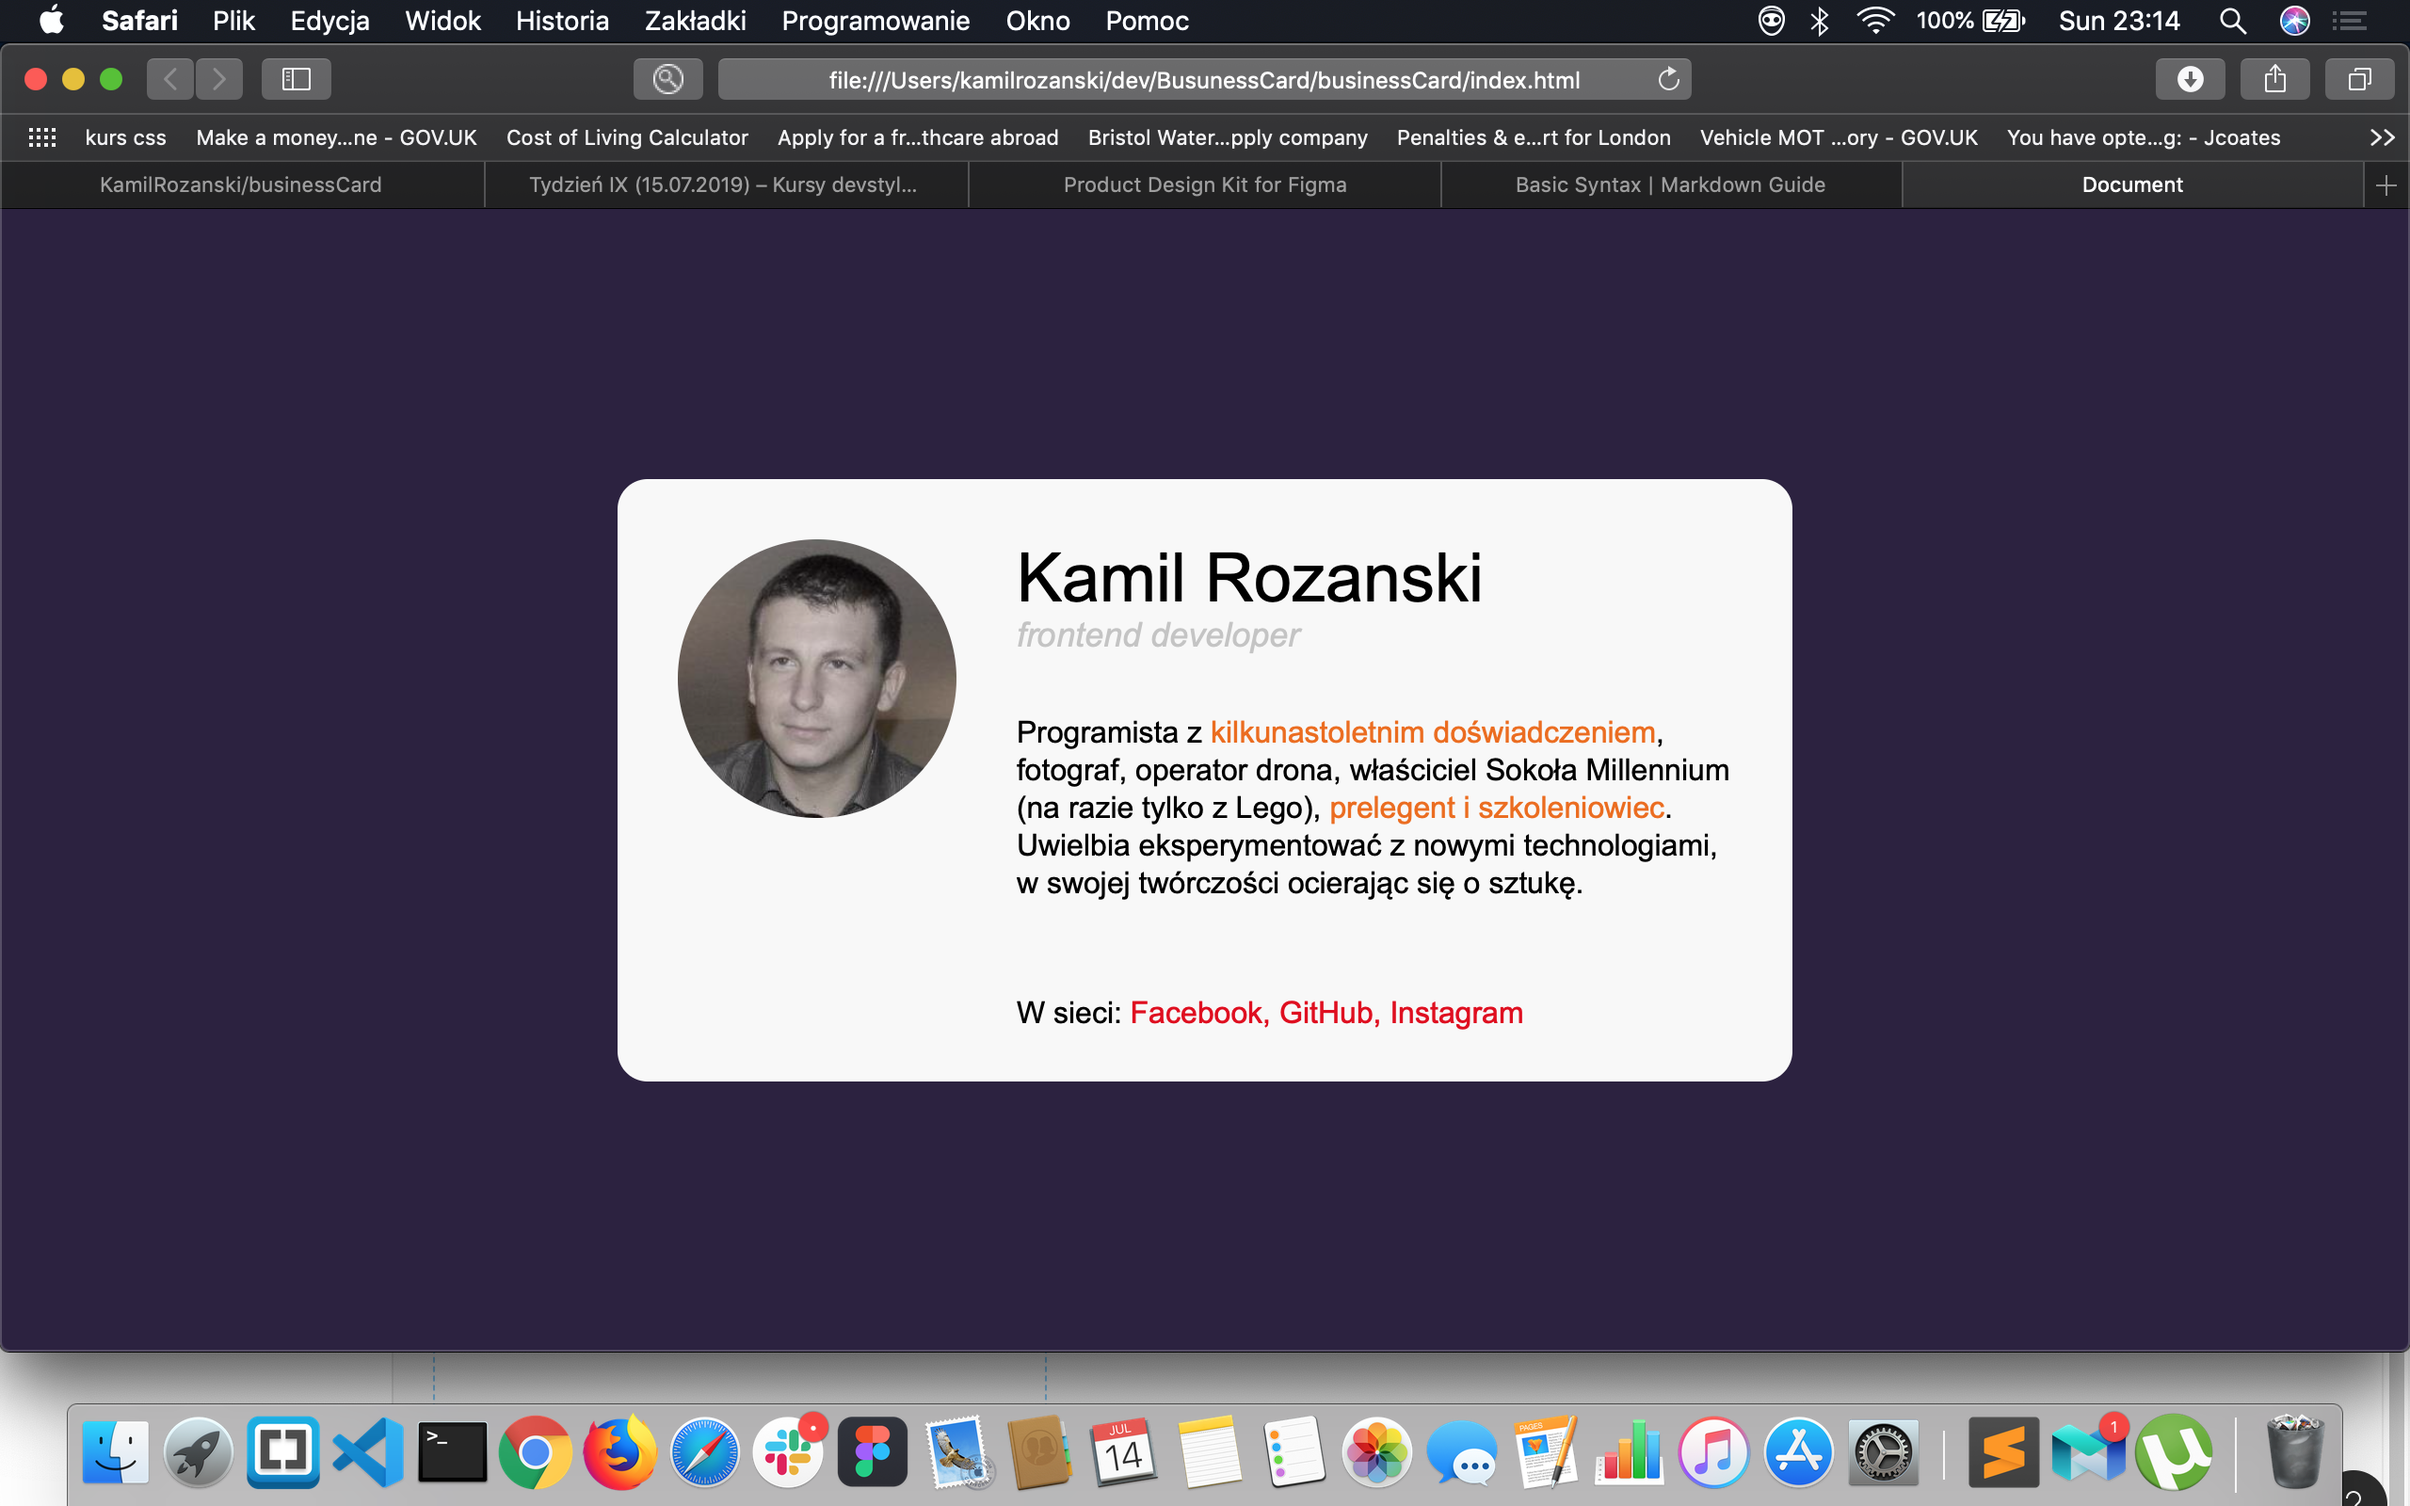
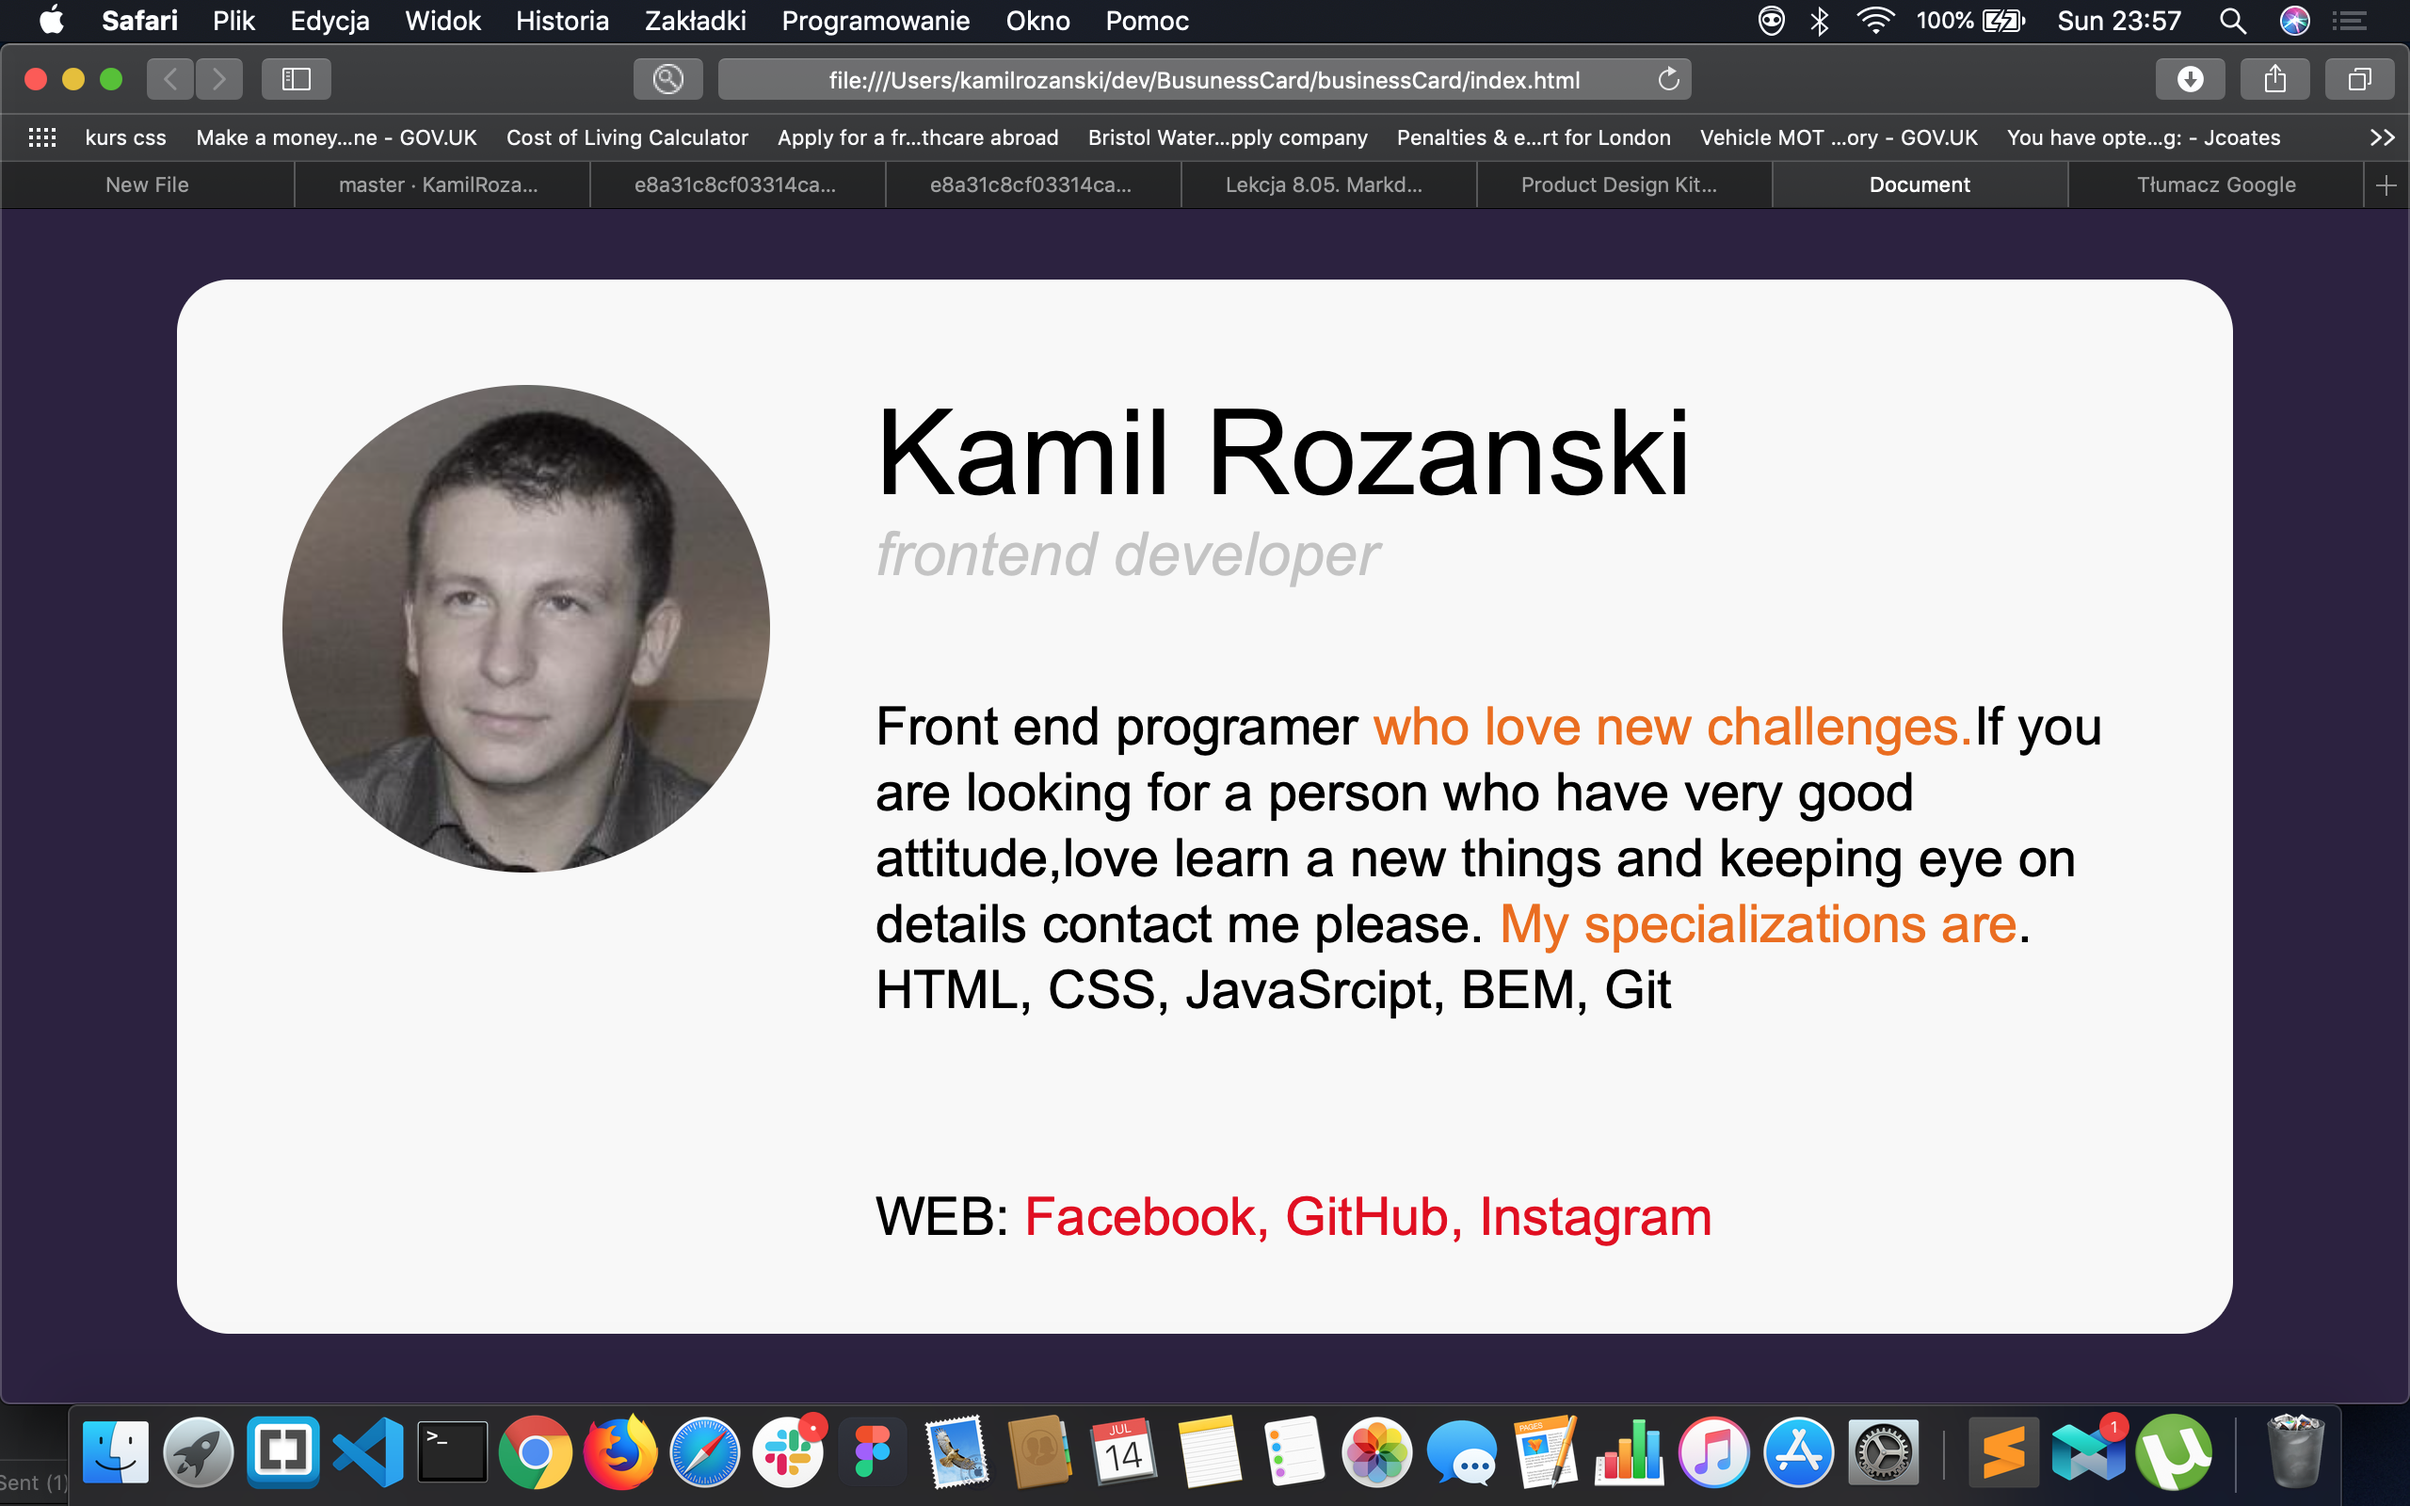
english

diff --git a/index.html b/index.html
@@ -13,26 +13,25 @@
 <body>
     <main>
         <section class="card">
-            <section class="card--img">
-                <div class="card--img__wraper">
+            <section class="card__img">
+                <div class="card__wraper">
                     <img src="img/547913_421426694554725_926780498_n.jpg" alt="Kamil Rozanski photo">
                 </div>
             </section>
-            <section class="user--name">
-                <h1 class="user--name__header">Kamil Rozanski</h1>
-                <div class="user--ocupation">
+            <section class="user__name">
+                <h1 class="user__header">Kamil Rozanski</h1>
+                <div class="user__ocupation">
                     <p>frontend developer</p>
                 </div>
             
-            <section class="user--about">
-                <p>Programista z
-                    <strong class="user--about__strong">kilkunastoletnim doświadczeniem</strong>, fotograf, operator
-                    drona, właściciel Sokoła Millennium (na razie tylko z Lego), <strong
-                        class="user--about__strong">prelegent i szkoleniowiec</strong>. Uwielbia eksperymentować z
-                    nowymi technologiami, w swojej twórczości ocierając się o sztukę.</p>
+            <section class="user__about">
+                <p>Front end programer
+                    <strong class="user--about__strong">who love new challenges.</strong>If you are looking for a person who have very good attitude,love learn a new things and keeping eye on details contact me please. 
+                     <strong
+                        class="user--about__strong">My specializations are</strong>. HTML, CSS, JavaSrcipt, BEM, Git</p>
             </section>
-            <section class="user--socials">
-                <p>W sieci: <strong class="user--socials__tags">Facebook, GitHub, Instagram<strong></p>
+            <section class="user__socials">
+                <p>WEB: <strong class="user__tags">Facebook, GitHub, Instagram<strong></p>
                 </section>
 
             </section>

diff --git a/style.css b/style.css
@@ -29,22 +29,22 @@ body {
     
 }
 
-.card--img__wraper img {
+.card__wraper img {
     border-radius: 50%;
     max-width: 148px;
     max-height: 148px;
     margin-right: 32px;
 }
 
-.user--name {}
 
-.user--name__header {
+
+.user__header {
     margin: 0px;
     font-weight: normal;
     font-size: 36px;
 }
 
-.user--ocupation p {
+.user__ocupation p {
     margin: 0px;
     font-style: italic;
     color: #C4C4C4;
@@ -52,7 +52,7 @@ body {
     margin-bottom: 32px;
 }
 
-.user--about p {
+.user__about p {
     line-height: 20px;
 }
 
@@ -62,10 +62,10 @@ body {
 }
 
 
-.user--socials {
+.user__socials {
     margin-top: 50px;
 }
-.user--socials__tags {
+.user__tags {
     color: #E20613;
     font-weight: normal;
 }
